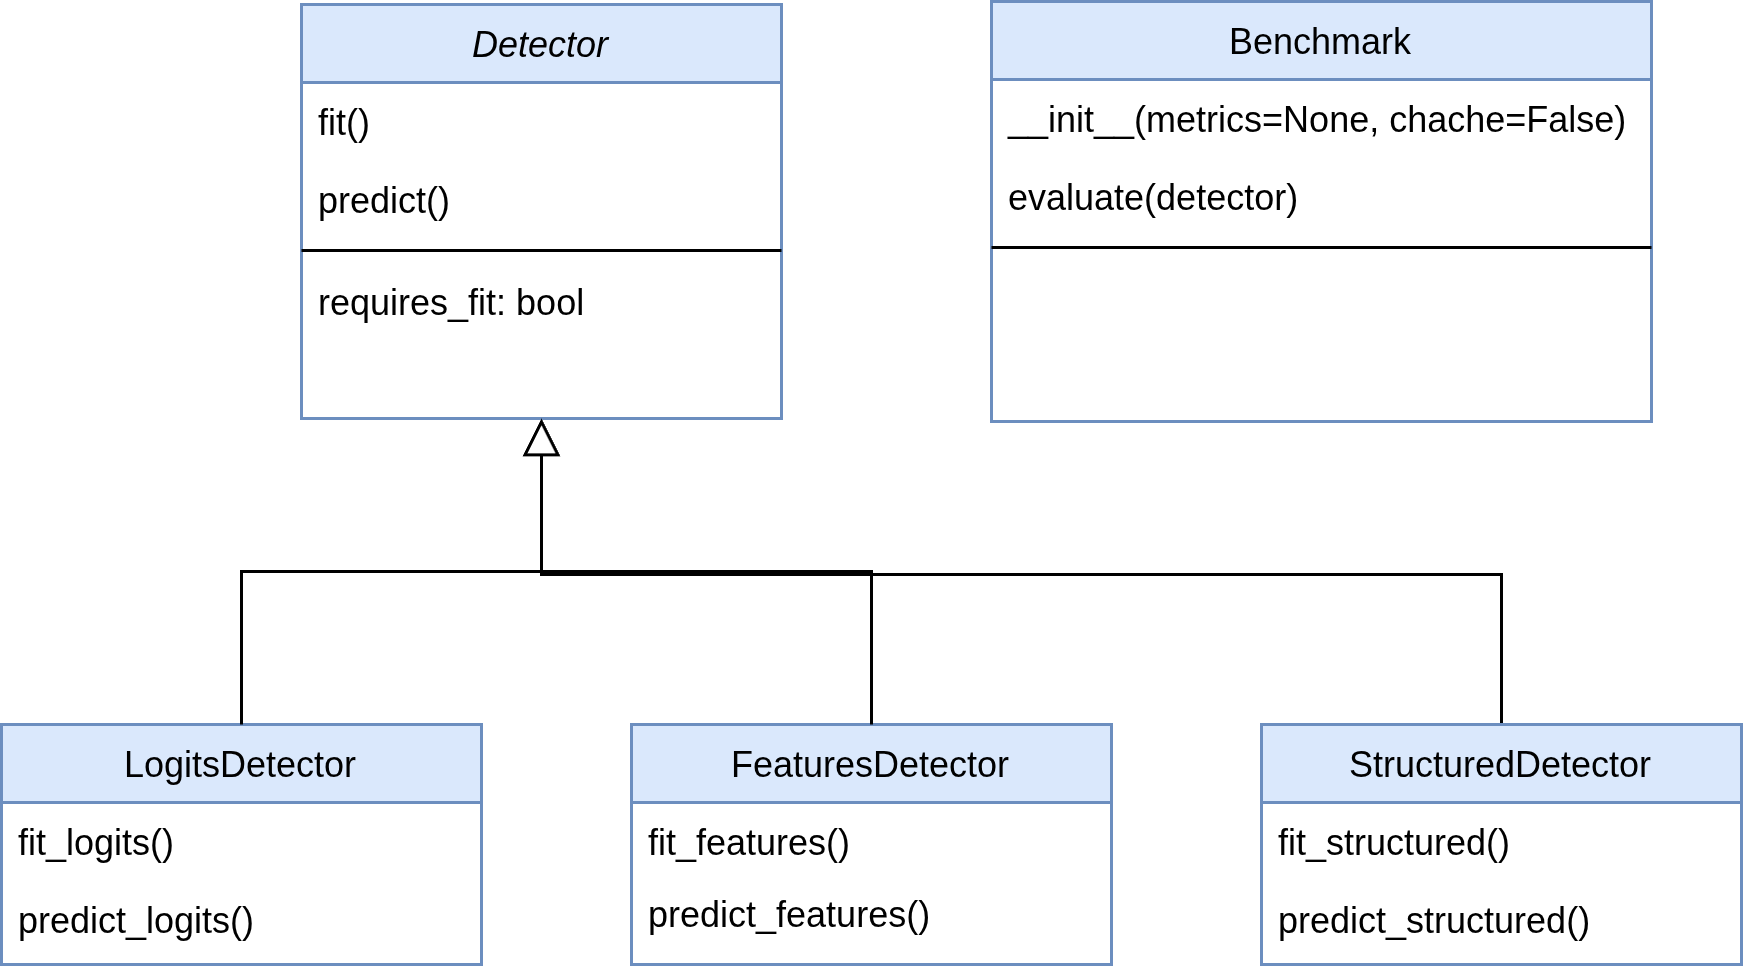
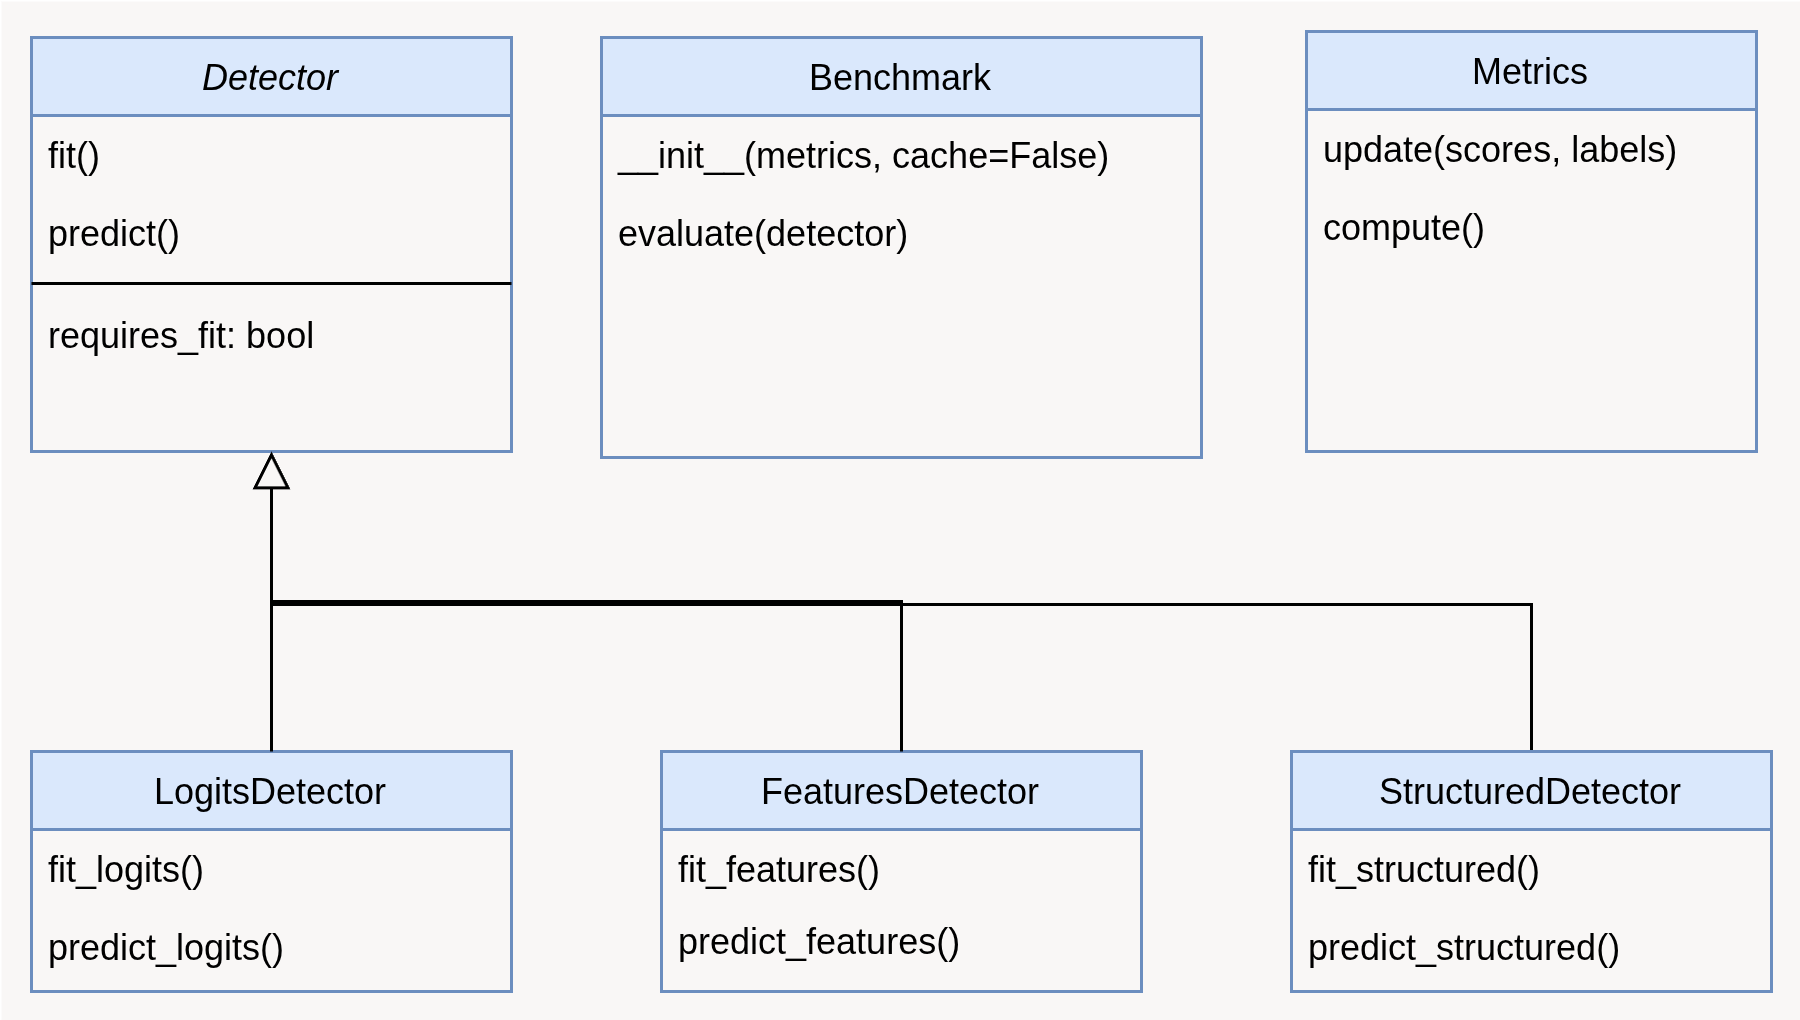
updates

diff --git a/paper/paper.md b/paper/paper.md
@@ -26,84 +26,109 @@ bibliography: paper.bib
 
 # Summary
 
-Out-of-distribution (OOD) detection is a central problem in modern machine learning, especially in safety-critical settings where predictive systems must recognize when an input no longer resembles the data seen during training @yang2021generalized. Although the field has developed rapidly, practical experimentation remains fragmented.
+Out-of-distribution (OOD) detection is a central problem in modern machine learning, especially in safety-critical settings where predictive systems must recognize when an input when an input no longer follows the training data distribution @yang2021generalized. Although the field has developed rapidly, practical experimentation remains fragmented.
 Implementations are often tied to individual papers, method interfaces vary considerably, and evaluation protocols can be difficult to reproduce.
-`pytorch-ood` aim to address this problem by providing a unified, research-oriented software library for OOD detection in the PyTorch ecosystem @paszke2019pytorch.
+`pytorch-ood` aims to address this problem by providing a unified, research-oriented software library for OOD detection in the PyTorch ecosystem @paszke2019pytorch.
 The package combines a broad collection of detectors, training objectives, datasets, pretrained models, and evaluation utilities behind a consistent interface, thereby reducing engineering overhead and making controlled comparisons easier to conduct.
 
 The library is designed for researchers who need both breadth and modularity. Rather than focusing on a single benchmark or a narrow family of methods, `pytorch-ood` aims to provide a reusable framework for OOD detection research.
-Its associated publication has been cited over 60 times, indicating sustained scholarly uptake, and the package has also seen substantial download activity as a software artifact.
-The project therefore serves not only as a code release for a single paper, but as reusable research infrastructure for a broader community.
+The library is accompanied by extensive documentation and unit tests, supporting reliable reuse and facilitating reproducible experimentation.
 
 # Statement of need
 
-Research on OOD detection faces a recurring methodological problem: many published methods are conceptually comparable, but difficult to compare in practice.
-Small implementation differences in preprocessing, score orientation, model wrapping, or metric computation can materially affect conclusions. At the same time, reproducing baselines often requires re-implementing large amounts of auxiliary code for dataset handling, evaluation, and model integration.
-This duplication of effort slows down research and makes empirical claims harder to audit.
+Research on OOD detection faces a recurring methodological problem: many published methods are conceptually comparable but difficult to compare in practice. Small implementation differences in preprocessing, score orientation, model wrapping, or metric computation can materially affect conclusions. At the same time, reproducing baselines often requires re-implementing substantial amounts of auxiliary code for dataset handling, evaluation, and model integration. This duplication slows progress and makes empirical claims harder to audit.
 
-`pytorch-ood` was developed to reduce this friction.
-The package provides a unified API for detectors and related components, while also covering a broad range of methods and benchmark datasets. This design makes it possible to reuse trained models across detectors, to evaluate methods under a shared interface, and to integrate new ideas without rebuilding the surrounding infrastructure.
-The resulting workflow is lighter than bespoke per-paper implementations and more flexible than fixed benchmark pipelines. In that sense, `pytorch-ood` is intended as a middle layer between individual research code and pure benchmarking frameworks: it offers standardization where standardization is useful, without sacrificing too much flexibility.
+`pytorch-ood` was developed to reduce this friction. The package provides a unified API for detectors and related components while covering a broad range of methods and benchmark datasets. This enables reuse of trained models across detectors, evaluation under a shared interface, and integration of new ideas without rebuilding surrounding infrastructure.
+The resulting workflow is lighter than bespoke per-paper implementations and more flexible than fixed benchmark pipelines, establishing `pytorch-ood` as a middle layer between individual research code and benchmark frameworks.
 
-# Functionality
 
-The functionality of `pytorch-ood` spans the main stages of the OOD detection workflow. At the detector level, the package implements a broad range of established methods, including ones based on predicted posteriors, logits, latent representations, model gradients, etc.
-These methods are exposed through a shared abstraction, which makes them easier to interchange in comparative experiments.
+### Comparison to existing tools
 
-Beyond post-hoc detection, the package also supports training-based approaches, where the training objective of a neural network is modified to improve OOD discriminability.
+Several tools for OOD detection exist (many released after `pytorch-ood`). Some, such as OpenOOD @zhang2023openood, emphasize standardized benchmark pipelines, while others like FrOODo @stieber2022froodo focus on specific domains such as medical applications.
 
-A further feature of the package is its support for datasets and benchmarks.
-`pytorch-ood` allows manual, metric-based evaluation using `OODMetrics`, while the benchmark submodule implements higher-level evaluation through benchmark objects such as OpenOOD v1.5, which can evaluate a detector on several common OOD datasets under one interface.
-This combination is useful because it supports both low-level custom evaluation loops and higher-level benchmark experiments.
+`pytorch-ood` occupies a different point in the design space.
+Rather than prescribing a fixed evaluation regime or domain, it provides a flexible, PyTorch-native layer for composing detectors, models, datasets, and benchmarks under a unified interface.
+This makes it well suited for exploratory research, baseline construction, and rapid integration of new ideas. Accordingly, it is best understood as complementary to benchmark-centric frameworks, prioritizing modularity and reuse.
 
-# Design and architecture
+
+# Software Design
+
+
 The core architectural principle of `pytorch-ood` is interface unification.
-All methods implement a shared `Detector` abstraction with a `predict()` method for mapping inputs to outlier scores and, where needed, an optional `fit()` method for calibration or training.
+All OOD detection methods implement a shared `Detector` abstraction with a `predict()` method for mapping inputs to outlier scores and, where needed, an optional `fit()` method for calibration or training.
 
-Beyond this common interface, the library provides specialized detector types such as `LogitDetector` and `FeatureDetector`, which offer additional variants of fitting and predictions, differing by the kind of representation they consume.
-For instance, logit-based detectors have the avility to operate directly on model outputs, while feature-based detectors can consume intermediate representations.
+Beyond this common interface, the library provides specialized detector types such as `LogitsDetector` and `FeaturesDetector`, which differ by the representation they consume while preserving the base `Detector` interface.
+These subclasses additionally expose representation-specific methods (e.g., `predict_logits()`, `predict_features()`), enabling detectors to operate directly on precomputed intermediate representations.
+For instance, logit-based detectors operate directly on model outputs, while feature-based detectors consume intermediate representations.
+
+```python
+# reuse logits across detectors
+logits = model(x)
+scores1 = detector1.predict_logits(logits)
+scores2 = detector2.predict_logits(logits)
+```
+
 This separation makes detectors easy to interchange in experiments and enables computational reuse, since extracted logits or features can be shared across multiple methods.
 
 ![architecture](arch.png)
 
 
-## Benchmarking
+### Metrics and Evaluation Conventions
 
-Additionally, we define a benchmark interface that takes exposes an `evaluate()` method, which takes a detector.
-This interface allows to easily reproduce benchmarks from different papers.
+OOD evaluation is often affected by inconsistent conventions, such as differing score orientations or label encodings, which can lead to incomparable results.
 
+To ensure consistency, `pytorch-ood` enforces a canonical evaluation protocol:
 
-# Comparison to existing tools
+1. **Problem formulation**: OOD detection is treated as binary classification between in-distribution (ID) and out-of-distribution (OOD) samples.
 
-Several tools for OOD detection already exist (even though most were released after `pytorch-ood`), and some, like OpenOOD @zhang2023openood, place a stronger emphasis on standardized benchmark pipelines.
-On the other hand, FrOODo @stieber2022froodo focuses on the medical domain.
-`pytorch-ood` occupies a somewhat different point in the design space.
-Its primary goal is not to prescribe a single evaluation regime, or a particular application domain, but to provide a flexible PyTorch-native library in which detectors, losses, models, datasets, and benchmarks share a coherent interface.
-This makes the package particularly suitable for exploratory research, baseline construction, ablation studies, and the rapid integration of new detection ideas into existing PyTorch workflows.
-The package is therefore best understood not as a replacement for benchmark-centric frameworks, like OpenOOD, but as complementary infrastructure that prioritizes modularity and reuse.
+2. **Score semantics**: Detectors produce scores $s(x)$ where higher values indicate a higher likelihood of being OOD.
 
-# Example usage
+3. **Label encoding**: OOD samples have labels $y < 0$, while ID samples retain standard class labels $y \geq 0$.
 
-A minimal evaluation workflow to replicate the CIFAR10 OpenOOD benchmark for a pre-trained model be written directly as:
+These conventions are applied uniformly across detectors, datasets, and benchmarks, enabling interchangeable components and directly comparable results without additional adjustments.
+
+### Benchmarks
+
+Additionally, we define a benchmark interface that exposes an `evaluate()` method, which takes a detector.
+This interface enables straightforward reproduction of benchmark protocols from prior work while still allowing custom evaluation pipelines when needed.
+
+For example, a minimal evaluation workflow to replicate the OpenOOD v1.5 CIFAR10  benchmark for the pre-trained model from one of the first OOD Detection benchmark papers by Hendrycks *et al.* @hendrycks2016baseline can be written directly as:
 
 ```python
-from pytorch_ood.detector import EnergyBased
+from pytorch_ood.detector import EnergyBased, MaxSoftmax
 from pytorch_ood.model import WideResNet
 from pytorch_ood.benchmark import CIFAR10_OpenOOD
 
 device = "cuda"
 
-model = WideResNet(num_classes=10, pretrained="er-cifar10-tune").eval()
-preprocess = WideResNet.transform_for("er-cifar10-tune")
-detector = EnergyBased(model).to(device)
+model = WideResNet(num_classes=10, pretrained="cifar10-pt").eval()
+preprocess = WideResNet.transform_for("cifar10-pt")
+ebo = EnergyBased(model)
+msp = MaxSoftmax(model)
 
-benchmark = CIFAR10_OpenOOD(root="data", transform=preprocess)
+benchmark = CIFAR10_OpenOOD(root="data", transform=preprocess, cache=True)
 
-metrics = benchmark.evaluate(detector, loader_kwargs={"batch_size": 64}, device=device)
+metrics = benchmark.evaluate(
+  [ebo, msp],
+  loader_kwargs={"batch_size": 64},
+  device=device
+)
 
 print(metrics)
 ```
 
+Since both detectors used in this example implement the LogitsDetector interface, these logits will be extracted from the model only once.
 
-# AI Usage Statement
-We used LLMs during implementation and writing of this manuscript.
+
+# Research Impact Statement
+
+The `pytorch-ood` library has seen sustained adoption within the research community. The associated publication has been cited more than 60 times, and the repository has accumulated over 300 GitHub stars with contributions from 9 developers.
+Overall, `pytorch-ood` serves both as reusable research infrastructure and as a foundation for further work in OOD detection and machine learning safety.
+
+
+
+# AI Usage Disclosure
+Development of `pytorch-ood` began prior to the widespread availability of modern generative AI systems.
+More recent contributions, including parts of the codebase and documentation, were developed with the assistance of generative AI tools.
+All such contributions were reviewed, tested, and validated by the authors.
+Generative AI was also used for editorial support in the preparation of this paper.
